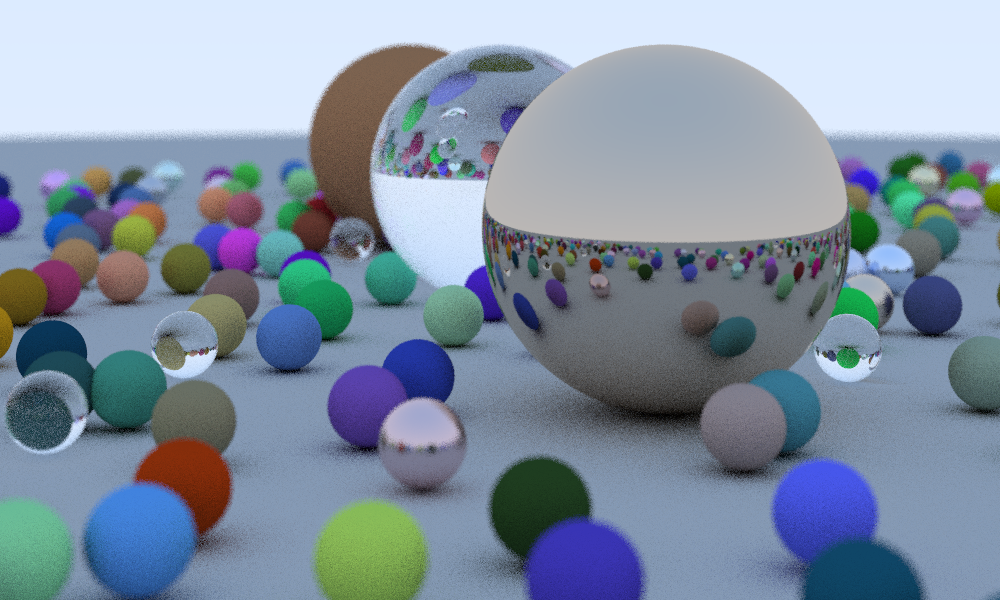
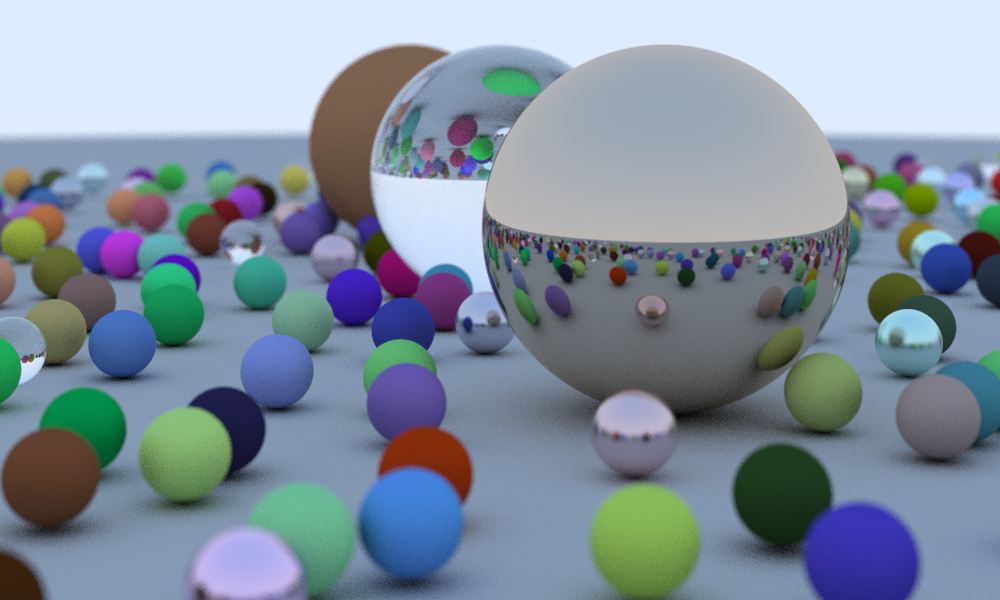
Parallelize calculation

diff --git a/main.cpp b/main.cpp
@@ -4,8 +4,12 @@
 #include "hitable.h"
 #include "materials.h"
 #include "stb_image_write.h"
+#include <algorithm>
+#include <chrono>
 #include <cstdint>
 #include <iostream>
+#include <thread>
+#include <vector>
 
 vec3 backgroundColor(const ray& r)
 {
@@ -32,29 +36,29 @@ vec3 color(const ray& r, const hitable* world, const float minDistance, const fl
 }
 hitable* randomScene()
 {
-    unsigned int n = 500;
+    const unsigned int n = 500u;
     unsigned int i = 0;
     hitable** list = new hitable*[n + 1];
-    list[i++] = new sphere(vec3(0, -1000, 0), 1000, new lambertian(vec3(0.5, 0.5, 0.5)));
+    list[i++] = new sphere(vec3(0, -1000, 0), 1000, new lambertian(vec3(0.5f, 0.5f, 0.5f)));
     for (int a = -11; a < 11; a++) {
         for (int b = -11; b < 11; b++) {
             float chooseMat = myRandom::next();
-            vec3 center(a + 0.9 * myRandom::next(), 0.2, b + 0.9 * myRandom::next());
-            if ((center - vec3(4, 0.2, 0)).length() > 0.9) {
-                if (chooseMat < 0.8) { // diffuse
+            vec3 center(a + 0.9 * myRandom::next(), 0.2f, b + 0.9f * myRandom::next());
+            if ((center - vec3(4, 0.2f, 0)).length() > 0.9f) {
+                if (chooseMat < 0.8f) { // diffuse
                     list[i++] =
-                        new sphere(center, 0.2,
+                        new sphere(center, 0.2f,
                                    new lambertian(vec3(myRandom::next() * myRandom::next(),
                                                        myRandom::next() * myRandom::next(),
                                                        myRandom::next() * myRandom::next())));
-                } else if (chooseMat < 0.95) { // metal
+                } else if (chooseMat < 0.95f) { // metal
                     list[i++] = new sphere(
-                        center, 0.2,
-                        new metal(vec3(0.5 * (1 + myRandom::next()), 0.5 * (1 + myRandom::next()),
-                                       0.5 * (1 + myRandom::next())),
-                                  0.5 * myRandom::next()));
+                        center, 0.2f,
+                        new metal(vec3(0.5f * (1 + myRandom::next()), 0.5f * (1 + myRandom::next()),
+                                       0.5f * (1 + myRandom::next())),
+                                  0.5f * myRandom::next()));
                 } else { // glass
-                    list[i++] = new sphere(center, 0.2, new dielectric(vec3(1.f, 1.f, 1.f), 1.5));
+                    list[i++] = new sphere(center, 0.2, new dielectric(vec3(1.f, 1.f, 1.f), 1.5f));
                 }
             }
         }
@@ -66,20 +70,82 @@ hitable* randomScene()
 
     return new hitableList(list, i);
 }
+struct raycastWorldParameters {
+    const float minDistance;
+    const float maxDistance;
+    const unsigned int maxDepth;
+    const unsigned int sampling;
+    const unsigned int width;
+    const unsigned int height;
+    const unsigned int startWidth;
+    const unsigned int endWidth;
+    const unsigned int startHeight;
+    const unsigned int endHeight;
+    const unsigned int channels;
+};
+void raycastWorld(const raycastWorldParameters& params, const hitable* world, const camera& cam,
+                  unsigned char* out)
+{
+    auto t1 = std::chrono::high_resolution_clock::now();
+    for (unsigned int j = params.startHeight; j < params.endHeight; ++j) {
+        for (unsigned int i = params.startWidth; i < params.endWidth; ++i) {
+            vec3 col(0.f, 0.f, 0.f);
+            for (unsigned int s = 0; s < params.sampling; ++s) {
+                float u = float(i + myRandom::next()) / float(params.width);
+                float v = float(j + myRandom::next()) / float(params.height);
+                ray r = cam.getRay(u, v);
+                col += color(r, world, params.minDistance, params.maxDistance,
+                             /* depth */ 0, params.maxDepth);
+            }
+            col /= params.sampling;
+
+            // Gamma correction
+            int r = sqrtf(col.x) * 255.99f;
+            int g = sqrtf(col.y) * 255.99f;
+            int b = sqrtf(col.z) * 255.99f;
+
+            int index = ((j * params.width) + i) * params.channels;
+
+            out[index + 0] = (unsigned char)(r);
+            out[index + 1] = (unsigned char)(g);
+            out[index + 2] = (unsigned char)(b);
+            out[index + 3] = (unsigned char)255;
+        }
+    }
+    auto t2 = std::chrono::high_resolution_clock::now();
+    auto duration = std::chrono::duration_cast<std::chrono::seconds>(t2 - t1).count();
+    std::thread::id thisId = std::this_thread::get_id();
+    std::printf("--------------------------\n"
+                "raycastWorld duration for:\n"
+                " startWidth: %u\n"
+                " endWidth: %u\n"
+                " startHeight: %u\n"
+                " endHeight: %u\n"
+                " maxDepth: %u\n"
+                " sampling: %u\n"
+                " threadId: 0x%08x\n"
+                "duration: %u seconds.\n",
+                params.startWidth, params.endWidth, params.startHeight, params.endHeight,
+                params.maxDepth, params.sampling, thisId, duration);
+}
 int main()
 {
-    float x = myRandom::next();
-
-    const unsigned int width = 1000;
-    const unsigned int height = 600;
-    const unsigned int sampling = 20;
-    const unsigned int maxDepth = 40;
     const float minDistance = 0.001f;
     const float maxDistance = 10000.f;
+    const unsigned int maxDepth = 40u;
+    const unsigned int sampling = 100u;
 
     // Output image data
-    const int channels = 4; // STBI_rgb_alpha
-    unsigned char* data = new unsigned char[width * height * channels];
+    const unsigned int width = 1000u;
+    const unsigned int height = 600u;
+    const unsigned int channels = 4u; // STBI_rgb_alpha
+
+    // Multi-threading
+    const unsigned int threadCount = std::thread::hardware_concurrency();
+
+    std::vector<std::thread> workers;
+
+    const unsigned int outputSize = width * height * channels;
 
     // Camera
     vec3 lookFrom(13, 2, 3);
@@ -93,30 +159,51 @@ int main()
     // Scene
     hitable* world = randomScene();
 
-    for (unsigned int j = 0; j < height; ++j) {
-        for (unsigned int i = 0; i < width; ++i) {
-            vec3 col(0.f, 0.f, 0.f);
-            for (unsigned int s = 0; s < sampling; ++s) {
-                float u = float(i + myRandom::next()) / float(width);
-                float v = float(j + myRandom::next()) / float(height);
-                ray r = cam.getRay(u, v);
-                col += color(r, world, minDistance, maxDistance, /* depth */ 0, maxDepth);
-            }
-            col /= sampling;
+    unsigned char* const data = new unsigned char[outputSize];
 
-            // Gamma correction
-            int r = sqrtf(col.x) * 255.99f;
-            int g = sqrtf(col.y) * 255.99f;
-            int b = sqrtf(col.z) * 255.99f;
-
-            int index = ((j * width) + i) * channels;
-
-            data[index + 0] = (unsigned char)(r);
-            data[index + 1] = (unsigned char)(g);
-            data[index + 2] = (unsigned char)(b);
-            data[index + 3] = (unsigned char)255;
-        }
+    auto t1 = std::chrono::high_resolution_clock::now();
+    unsigned int startHeight = 0u;
+    for (int i = 0; i < threadCount; i++) {
+        const unsigned int startWidth = 0u;
+        const unsigned int endWidth = width;
+        const unsigned int minHeightPerThread = height / threadCount;
+        const unsigned int threadHeight =
+            i < (height % threadCount) ? minHeightPerThread + 1 : minHeightPerThread;
+        const unsigned int endHeight = startHeight + threadHeight;
+        workers.push_back(
+            std::thread([minDistance, maxDistance, maxDepth, sampling, width, height, startWidth,
+                         endWidth, startHeight, endHeight, channels, world, cam, data]() {
+                const raycastWorldParameters parameters{.minDistance = minDistance,
+                                                        .maxDistance = maxDistance,
+                                                        .maxDepth = maxDepth,
+                                                        .sampling = sampling,
+                                                        .width = width,
+                                                        .height = height,
+                                                        .startWidth = startWidth,
+                                                        .endWidth = endWidth,
+                                                        .startHeight = startHeight,
+                                                        .endHeight = endHeight,
+                                                        .channels = channels};
+                raycastWorld(parameters, world, cam, data);
+            }));
+        startHeight += threadHeight;
     }
+    for (int i = 0; i < threadCount; i++) {
+        workers[i].join();
+    }
+
+    auto t2 = std::chrono::high_resolution_clock::now();
+
+    auto duration = std::chrono::duration_cast<std::chrono::seconds>(t2 - t1).count();
+    std::printf("---------------------\n"
+                "Raycast duration for:\n"
+                " width: %u\n"
+                " height: %u\n"
+                " maxDepth: %u\n"
+                " sampling: %u\n"
+                " threadCount: %u\n"
+                "duration: %u seconds.\n",
+                width, height, maxDepth, sampling, threadCount, duration);
 
     int ret = stbi_write_png("out.png", width, height, channels, data, channels * width);
     if (ret == 0) {
@@ -124,6 +211,7 @@ int main()
     }
 
     delete world;
+    delete[] data;
 
     return 0;
 }

diff --git a/camera.h b/camera.h
@@ -31,7 +31,7 @@ class camera
         this->vertical = -2 * halfH * this->focusDistance * up;
     }
 
-    ray getRay(float u, float v)
+    ray getRay(float u, float v) const
     {
         vec3 rd = lensRadius * myRandom::nextInUnitDiskXY();
         vec3 offset = right * rd.x + up * rd.y;
